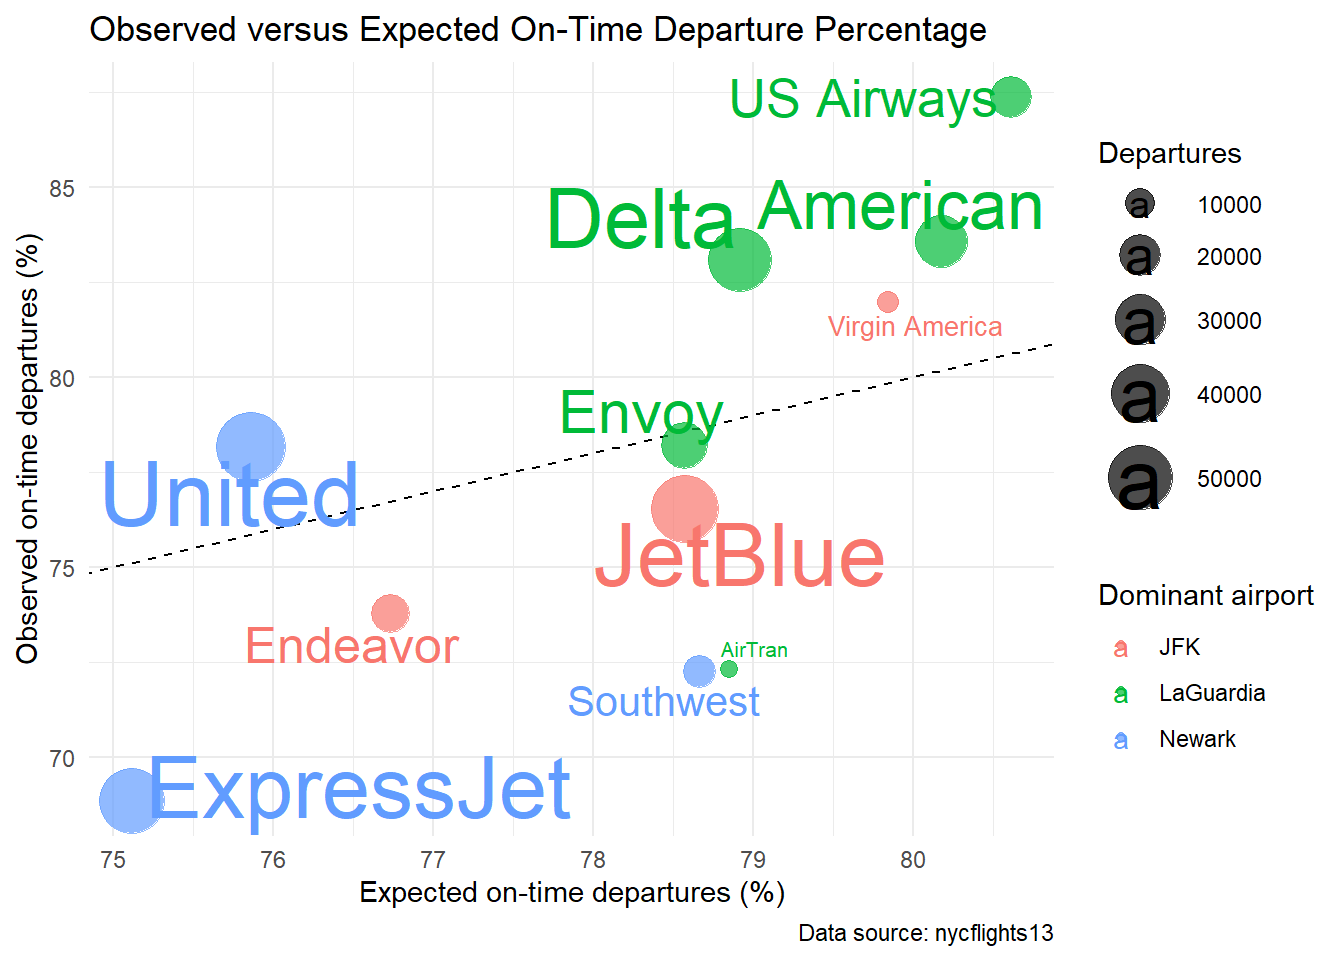
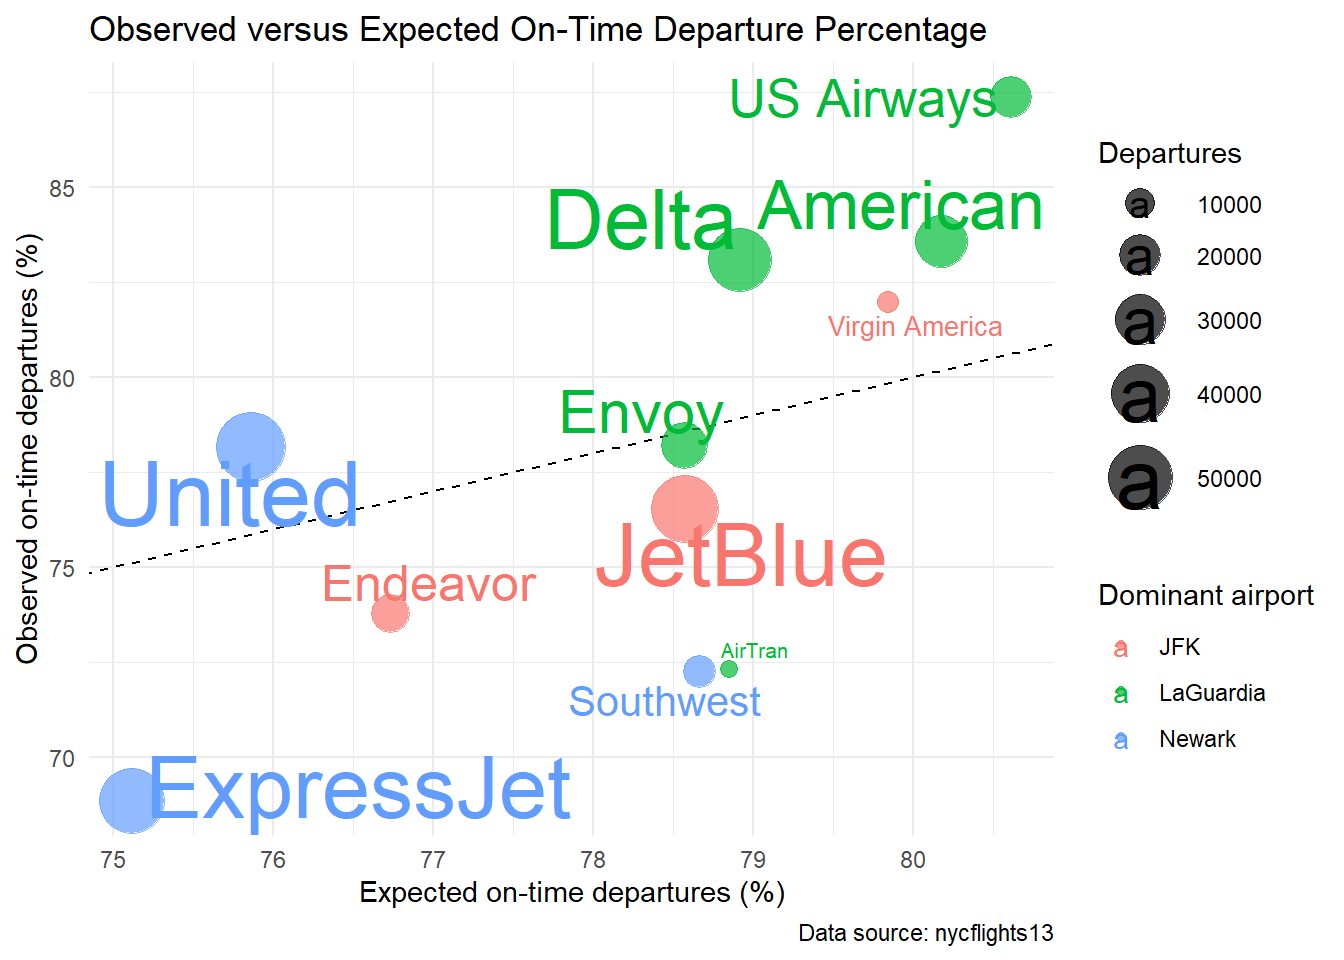
Updated all questions

diff --git a/team-navy-nyc-delays-lab.html b/team-navy-nyc-delays-lab.html
@@ -306,6 +306,7 @@ pre > code.sourceCode > span > a:first-child::before { text-decoration: underlin
 <span id="cb8-4"><a href="#cb8-4" aria-hidden="true" tabindex="-1"></a>  <span class="fu">abs</span>(sum_check<span class="sc">$</span>total <span class="sc">-</span> <span class="dv">100</span>) <span class="sc">&lt;</span> <span class="fl">1e-6</span> <span class="sc">|</span> <span class="fu">abs</span>(sum_check<span class="sc">$</span>total <span class="sc">-</span> <span class="dv">100</span>) <span class="sc">&lt;</span> <span class="fl">0.1</span></span>
 <span id="cb8-5"><a href="#cb8-5" aria-hidden="true" tabindex="-1"></a>))</span></code></pre></div><button title="Copy to Clipboard" class="code-copy-button"><i class="bi"></i></button></div>
 </div>
+<p><strong>Based on the stacked bar chart, which airport does the busiest airline depart from most, and how lopsided is that share? Call this airport the airline’s dominant airport; you will use the term again later.</strong></p>
 </section>
 <section id="on-time-departures-by-airport" class="level3">
 <h3 class="anchored" data-anchor-id="on-time-departures-by-airport">3.5 On-Time Departures by Airport</h3>
@@ -341,6 +342,7 @@ pre > code.sourceCode > span > a:first-child::before { text-decoration: underlin
                77.80538                77.80538                77.94822 </code></pre>
 </div>
 </div>
+<p><strong>Is the dominant departure airport of the busiest airline also the airport with the lowest on-time percentage? If so, what does that suggest? Could the airline’s raw rank partly reflect where it flies rather than its schedule-adjusted punctuality?</strong></p>
 <p>United’s dominant airport is Newark, and Newark has the lowest on-time percentage among the three airports. This suggests that United’s raw punctuality rank may partly reflect where it flies from, rather than only its schedule-adjusted punctuality.</p>
 </section>
 <section id="on-time-departures-by-time-of-day-and-airport-heatmap" class="level3">
@@ -377,6 +379,7 @@ pre > code.sourceCode > span > a:first-child::before { text-decoration: underlin
 </div>
 </div>
 </div>
+<p><strong>You mapped airport to color and linetype—two visual properties for one variable. Briefly justify this apparent redundancy: What does line type protect against that color alone does not?</strong></p>
 <p>Mapping airport to both color and linetype makes the lines easier to distinguish if the plot is printed in grayscale or viewed by someone who has difficulty distinguishing colors.</p>
 </section>
 <section id="schedule-mix-by-airline-hourly-profile" class="level3">
@@ -416,6 +419,7 @@ pre > code.sourceCode > span > a:first-child::before { text-decoration: underlin
 </div>
 </div>
 </div>
+<p><strong>Interpret the heatmap. Locate the busiest airline you have been tracking since Section 3.3. Does it concentrate its departures in late, lower-punctuality hours, or does it fly at more favorable times? Based on the heatmap, how much can when it flies explain its raw punctuality rank?</strong></p>
 <p>The heatmap shows that airlines have different schedules across the day. United does not appear to operate only in the latest, lower-punctuality hours; its departures are spread across many hours. Therefore, time of day may explain part of its raw punctuality ranking, but it does not fully explain it.</p>
 </section>
 <section id="observed-versus-expected-on-time-departure-percentage" class="level3">
@@ -475,9 +479,21 @@ pre > code.sourceCode > span > a:first-child::before { text-decoration: underlin
 </div>
 </div>
 </div>
+</section>
+<section id="summary-and-interpretation" class="level3">
+<h3 class="anchored" data-anchor-id="summary-and-interpretation">3.9 Summary and Interpretation</h3>
+<p><strong>Compare its dominant airport, expected on-time percentage, and position relative to the equality line with those of the busiest airline. Are the two airlines facing similar airport-hour circumstances? If so, what does their difference in observed on-time percentage suggest?</strong></p>
 <p>United is the busiest airline. Although its raw on-time percentage is not among the highest, its expected on-time percentage is also relatively low because it mainly operates from Newark and faces a less favorable airport-hour mix. Since United appears above the equality line, it performed better than expected given its airport-hour circumstances.</p>
 <p>ExpressJet is the airline at the bottom of the punctuality ranking. Like United, it mainly operates from Newark, so both airlines face somewhat similar airport circumstances. However, ExpressJet appears below the equality line, meaning its observed on-time percentage is worse than expected from its schedule mix.</p>
+<p><strong>Using this contrast, answer the lab’s question in two or three sentences: What does the raw on-time departure ranking reveal, and what does it obscure once airport-hour circumstances are considered?</strong></p>
 <p>Overall, the raw on-time ranking shows which airlines had higher or lower observed punctuality, but it obscures the airport and time-of-day conditions each airline faced. Comparing observed and expected on-time percentages shows whether an airline’s performance is better or worse than what its schedule circumstances would predict.</p>
+<p><strong>Individual reflection: How does seeing the data rather than reading it in a table shaped their understanding over the course of this lab. Point to a specific moment: A plot that revealed something a column of numbers would have hidden, or a chart that overturned an impression an earlier step had left you with</strong></p>
+<ul>
+<li><p><strong>Zen: AI Laison</strong></p></li>
+<li><p><strong>Jun Lum: Constructive Critic + Reporter</strong></p></li>
+<li><p><strong>Ben: Coder</strong></p></li>
+<li><p><strong>Phoebe: Navigator + Verifier</strong></p></li>
+</ul>
 </section>
 </section>
 